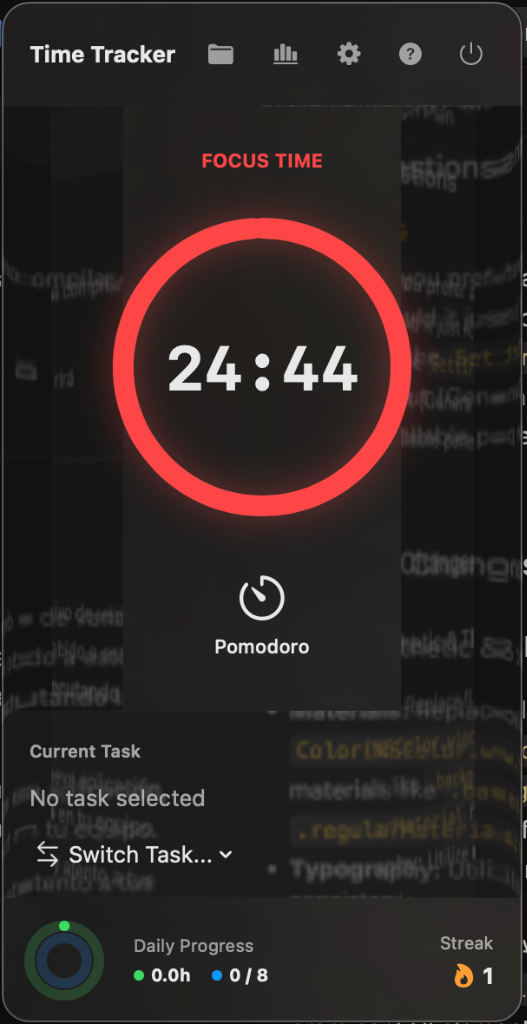
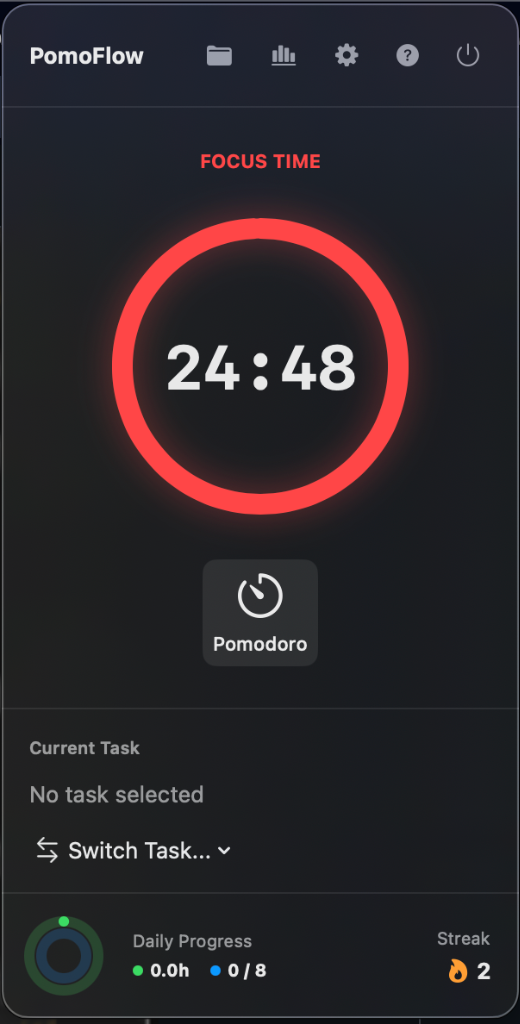
Update README and screenshots based on latest UI

diff --git a/README.md b/README.md
@@ -13,7 +13,7 @@
 
 ---
 
-PomoFlow is built entirely with SwiftUI and SwiftPM (no Xcode project files required!). It offers a premium glassmorphic interface alongside enterprise-level focus and security features. It's designed for freelancers, developers, and anyone who needs to combine billing and productivity seamlessly.
+PomoFlow is designed for freelancers, developers, and anyone who needs to combine billing and productivity seamlessly. Built entirely with SwiftUI, it offers a premium glassmorphic interface alongside enterprise-level focus and security features.
 
 ## ✨ Key Features
 
@@ -24,21 +24,12 @@ Combine traditional task-based time tracking (to calculate hourly rates and bill
   <img src="assets/screenshot1.png" alt="Main Interface" width="600" style="border-radius: 12px; box-shadow: 0 4px 14px rgba(0,0,0,0.2);" />
 </div>
 
-### 🎨 Premium macOS Interface
-A sleek, native SwiftUI interface leveraging `.ultraThinMaterial` for beautiful glassmorphism, responsive hover states, and smooth animations.
-
 ### ⚡ Menu Bar "Live Timer"
 Keep an eye on your remaining focus time right from your system status bar without opening the main app. Click the icon to instantly pause or start your Pomodoros.
 
 <div align="center">
-  <img src="assets/screenshot3.png" alt="Menu Bar" width="300" style="border-radius: 12px; box-shadow: 0 4px 14px rgba(0,0,0,0.2);" />
+  <img src="assets/screenshot3.png" alt="Menu Bar" width="500" style="border-radius: 12px; box-shadow: 0 4px 14px rgba(0,0,0,0.2);" />
 </div>
-
-### 🛡 Strict Focus Mode
-When a Pomodoro session starts, the app can automatically hide all other applications, leaving you in a distraction-free environment. Built securely using native Cocoa APIs.
-
-### ⌨ Global Keyboard Shortcuts
-Start, pause, or check your Pomodoro status from anywhere in macOS using customizable global hotkeys (`Cmd + Option + P`, `Cmd + Option + O`, etc.).
 
 ### 📊 Advanced Reports & CSV Export
 View beautiful dashboard metrics of your daily progress, streaks, and earnings, and export detailed CSV reports with a single click.
@@ -47,21 +38,35 @@ View beautiful dashboard metrics of your daily progress, streaks, and earnings, 
   <img src="assets/screenshot2.png" alt="Reports" width="600" style="border-radius: 12px; box-shadow: 0 4px 14px rgba(0,0,0,0.2);" />
 </div>
 
-### 🔒 Secure by Design
-Data is saved locally using macOS File Protection (`.completeFileProtectionUnlessOpen`). The app architecture is entirely offline, meaning your productivity data never leaves your machine.
+### 🛡 Strict Focus Mode & Global Keyboard Shortcuts
+When a Pomodoro session starts, the app can automatically hide all other applications, leaving you in a distraction-free environment. 
+Start, pause, or check your Pomodoro status from anywhere in macOS using customizable global hotkeys (`Cmd + Option + P`, `Cmd + Option + O`, etc.).
 
 ---
 
-## 🚀 Getting Started
+## 🚀 How to Use PomoFlow
 
-PomoFlow is built using the Swift Package Manager. You don't need to open Xcode to compile it; standard terminal commands are enough.
+Thanks to our automated GitHub Actions release pipeline, installing PomoFlow is incredibly easy. You don't need to compile anything.
 
-### Prerequisites
+1. Go to the [Releases](https://github.com/chamakov/PomoFlow/releases) page of this repository.
+2. Download the latest `PomoFlow.dmg` file.
+3. Open the `.dmg` and drag **PomoFlow** to your `/Applications` folder.
+4. Launch the app and start focusing!
+
+*Note: Data is saved locally using macOS File Protection (`.completeFileProtectionUnlessOpen`). Your productivity data never leaves your machine.*
+
+---
+
+## 🛠 How to Contribute
+
+We welcome contributions from the community! PomoFlow uses an innovative architecture built entirely with the **Swift Package Manager (SwiftPM)**. There are no `.xcodeproj` files, preventing annoying merge conflicts and keeping the codebase clean.
+
+### Prerequisites for Development
 - macOS 14.0 (Sonoma) or newer.
 - Swift 5.9+ (included with Xcode 15+ or Command Line Tools).
 
 ### Building and Running
-We provide a convenient bash script to compile and run the application.
+We provide a convenient bash script to compile and run the application directly from the terminal.
 
 ```bash
 # 1. Clone the repository
@@ -72,27 +77,19 @@ cd PomoFlow
 ./Scripts/compile_and_run.sh
 ```
 
-### Packaging for Release
-To create a release version (`PomoFlow.app`) that you can move to your `/Applications` folder:
+### Packaging for Release (Local)
+While our CI/CD pipeline handles releases automatically, you can generate a `.app` bundle locally to test distribution:
 
 ```bash
 ./Scripts/package_app.sh release
 ```
-The script will generate a fully bundled `PomoFlow.app` in the root directory.
 
----
-
-## 🛠 Architecture
-* **SwiftUI:** The entire UI is built declaratively using modern SwiftUI (WindowGroups, MenuBarExtra, NavigationSplitView).
-* **Observation Framework:** State management is handled through the new `@Observable` macro via a central `PomoFlowStore`.
-* **SwiftPM:** The project uses `Package.swift` instead of `.xcodeproj`. This keeps the repository clean, prevents merge conflicts on project files, and makes CI/CD a breeze.
-
-## 🔒 Mac App Store & Sandboxing
-If you intend to fork this project and submit it to the Mac App Store, please note:
+### Mac App Store & Sandboxing
+If you intend to fork this project and submit it to the Mac App Store:
 1. You must enable the App Sandbox.
 2. Edit `Scripts/package_app.sh` and uncomment the entitlements for `com.apple.security.app-sandbox` and `com.apple.security.automation.apple-events`.
 
-## 🤝 Contributing
+## 🤝 Community & Support
 Contributions, issues, and feature requests are welcome! Feel free to check the [issues page](https://github.com/chamakov/PomoFlow/issues).
 
 ## 📝 License
